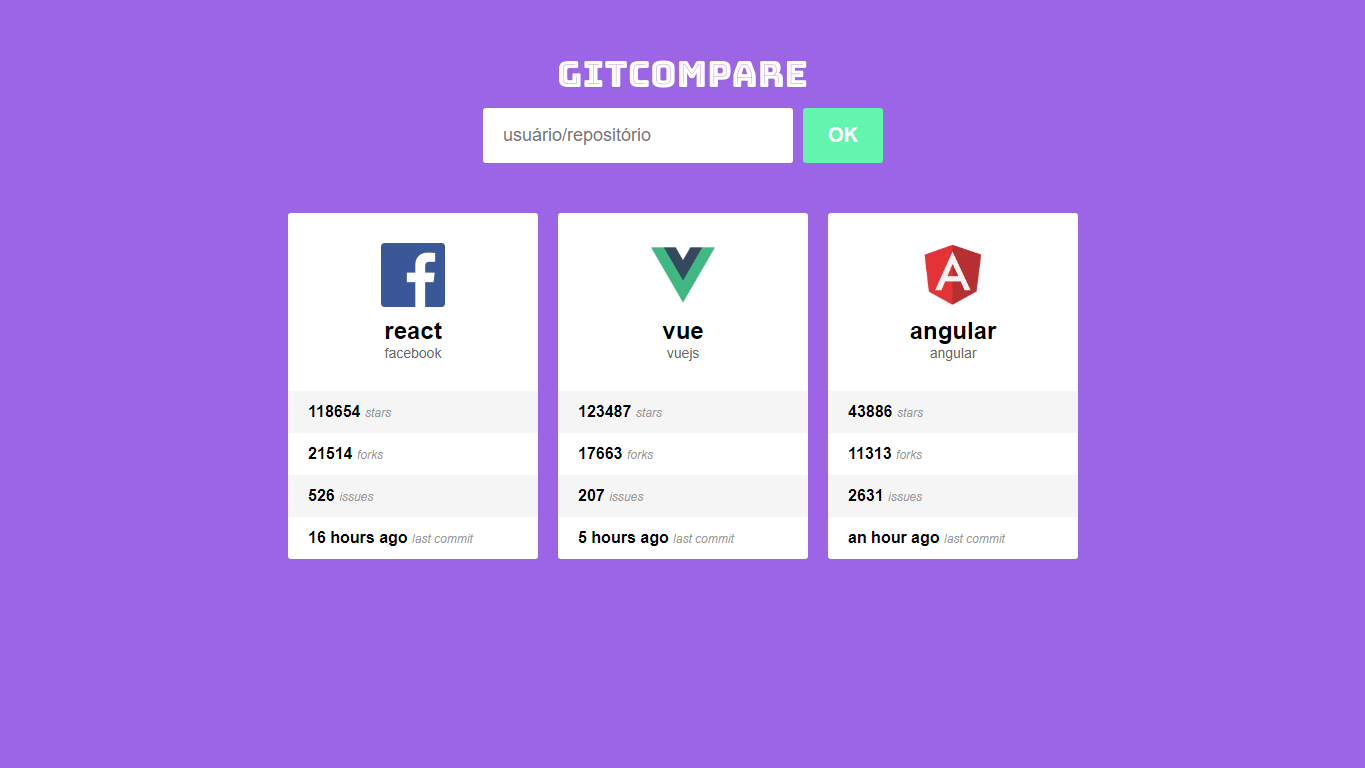
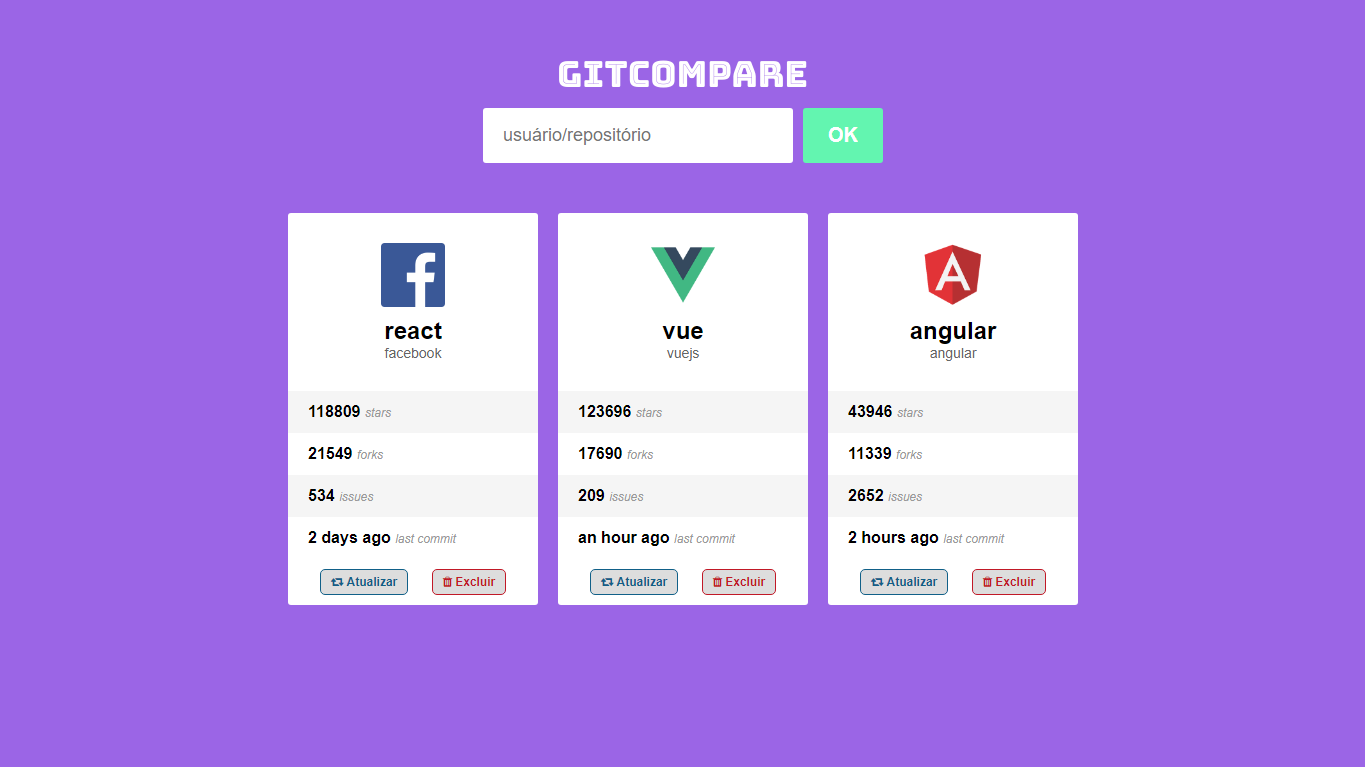
Conclusão do Desafio

diff --git a/src/pages/Main/index.js b/src/pages/Main/index.js
@@ -1,10 +1,13 @@
 import React, { Component } from 'react';
+
 import moment from 'moment';
+
 import api from '../../services/api';
 
 import logo from '../../assets/logo.png';
 
 import { Container, Form } from './styles';
+
 import CompareList from '../../components/CompareList';
 
 export default class Main extends Component {
@@ -15,21 +18,36 @@ export default class Main extends Component {
     repositories: [],
   };
 
+  async componentDidMount() {
+    this.setState({ loading: true });
+
+    this.setState({ loading: false, repositories: await this.getLocalRepositories() });
+  }
+
   handleAddRepository = async (e) => {
     e.preventDefault();
 
     this.setState({ loading: true });
 
+    const { repositoryInput, repositories } = this.state;
+
     try {
-      const { data: repository } = await api.get(`/repos/${this.state.repositoryInput}`);
+      const { data: repository } = await api.get(`/repos/${repositoryInput}`);
 
       repository.lastCommit = moment(repository.pushed_at).fromNow();
 
       this.setState({
         repositoryInput: '',
-        repositories: [...this.state.repositories, repository],
+        repositories: [...repositories, repository],
         repositoryError: false,
       });
+
+      const localRepositories = await this.getLocalRepositories();
+
+      await localStorage.setItem(
+        '@GitCompare:repositories',
+        JSON.stringify([...localRepositories, repository]),
+      );
     } catch (err) {
       this.setState({ repositoryError: true });
     } finally {
@@ -37,24 +55,66 @@ export default class Main extends Component {
     }
   };
 
+  getLocalRepositories = async () => JSON.parse(await localStorage.getItem('@GitCompare:repositories')) || [];
+
+  handleRemoveRepository = async (id) => {
+    const { repositories } = this.state;
+
+    const updatedRepositories = repositories.filter(repository => repository.id !== id);
+
+    this.setState({ repositories: updatedRepositories });
+
+    await localStorage.setItem('@GitCompare:repositories', JSON.stringify(updatedRepositories));
+  }
+
+  handleUpdateRepository = async (id) => {
+    const { repositories } = this.state;
+
+    const repository = repositories.find(repo => repo.id === id);
+
+    try {
+      const { data } = await api.get(`/repos/${repository.full_name}`);
+
+      data.lastCommit = moment(data.pushed_at).fromNow();
+
+      this.setState({
+        repositoryInput: '',
+        repositories: repositories.map(repo => (repo.id === data.id ? data : repo)),
+        repositoryError: false,
+      });
+
+      await localStorage.setItem('@GitCompare:repositories', JSON.stringify(repositories));
+    } catch (err) {
+      this.setState({ repositoryError: true });
+    }
+  };
+
   render() {
+    const {
+      repositories, repositoryInput, repositoryError, loading,
+    } = this.state;
+
     return (
       <Container>
         <img src={logo} alt="GitHub Compare" />
 
-        <Form withError={this.state.repositoryError} onSubmit={this.handleAddRepository}>
+        <Form withError={repositoryError} onSubmit={this.handleAddRepository}>
           <input
             type="text"
             placeholder="usuário/repositório"
-            value={this.state.repositoryInput}
+            value={repositoryInput}
             onChange={e => this.setState({ repositoryInput: e.target.value })}
           />
           <button type="submit">
-            {this.state.loading ? <i className="fa fa-spinner fa-pulse" /> : 'OK'}
+            {loading ? <i className="fa fa-spinner fa-pulse" /> : 'OK'}
           </button>
         </Form>
 
-        <CompareList repositories={this.state.repositories} />
+        <CompareList
+          repositories={repositories}
+          removeRepository={this.handleRemoveRepository}
+          updateRepository={this.handleUpdateRepository}
+        />
       </Container>
     );
   }

diff --git a/src/components/CompareList/index.js b/src/components/CompareList/index.js
@@ -3,7 +3,7 @@ import PropTypes from 'prop-types';
 
 import { Container, Repository } from './styles';
 
-const CompareList = ({ repositories }) => (
+const CompareList = ({ repositories, removeRepository, updateRepository }) => (
   <Container>
     {repositories.map(repository => (
       <Repository key={repository.id}>
@@ -15,26 +15,32 @@ const CompareList = ({ repositories }) => (
 
         <ul>
           <li>
-            {repository.stargazers_count}
-            {' '}
+            {`${repository.stargazers_count} `}
             <small>stars</small>
           </li>
           <li>
-            {repository.forks_count}
-            {' '}
+            {`${repository.forks_count} `}
             <small>forks</small>
           </li>
           <li>
-            {repository.open_issues_count}
-            {' '}
+            {`${repository.open_issues_count} `}
             <small>issues</small>
           </li>
           <li>
-            {repository.lastCommit}
-            {' '}
+            {`${repository.lastCommit} `}
             <small>last commit</small>
           </li>
         </ul>
+        <div className="buttons-container">
+          <button type="button" onClick={() => updateRepository(repository.id)}>
+            <i className="fa fa-retweet" />
+            Atualizar
+          </button>
+          <button type="button" onClick={() => removeRepository(repository.id)}>
+            <i className="fa fa-trash" />
+            Excluir
+          </button>
+        </div>
       </Repository>
     ))}
   </Container>
@@ -55,6 +61,8 @@ CompareList.propTypes = {
       lastCommit: PropTypes.string,
     }),
   ).isRequired,
+  removeRepository: PropTypes.func.isRequired,
+  updateRepository: PropTypes.func.isRequired,
 };
 
 export default CompareList;

diff --git a/src/components/CompareList/styles.js b/src/components/CompareList/styles.js
@@ -4,7 +4,6 @@ export const Container = styled.div`
   display: flex;
   flex-direction: row;
   justify-content: center;
-
   margin-top: 50px;
 `;
 
@@ -13,7 +12,6 @@ export const Repository = styled.div`
   background: #fff;
   border-radius: 3px;
   margin: 0 10px;
-
   display: flex;
   flex-direction: column;
 
@@ -54,6 +52,43 @@ export const Repository = styled.div`
 
       &:nth-child(2n - 1) {
         background: #f5f5f5;
+      }
+    }
+  }
+
+  div.buttons-container {
+    padding: 10px 20px;
+    display: flex;
+    justify-content: space-around;
+
+    button {
+      padding: 5px 10px;
+      border-radius: 5px;
+      font-size: 12px;
+      font-weight: bold;
+
+      i {
+        margin-right: 3px;
+      }
+
+      &:nth-child(2n) {
+        border: 1px solid #c11927;
+        color: #c11927;
+
+        &:hover {
+          background: #aa1622;
+          color: #fff;
+        }
+      }
+
+      &:nth-child(2n - 1) {
+        border: 1px solid #116088;
+        color: #116088;
+
+        &:hover {
+          background: #0e5071;
+          color: #fff;
+        }
       }
     }
   }

diff --git a/README.md b/README.md
@@ -1,6 +1,6 @@
 # ReactJS - Desafio 2
 
-Aplicação GitHub Compare usando Create React App, ESLint, prop-types, styled-components, Axios, Moment e Font Awesome.
+Aplicação GitHub Compare usando Create React App, ESLint, prop-types, styled-components, Axios, Moment, Font Awesome e Local Storage.
 
 ## Desafio 2
 
@@ -33,7 +33,7 @@ Nesse desafio você irá melhorar a aplicação que desenvolvemos durante o segu
 ### Principal
 
 ![Main](/assets/main.png)
-Esta é a única tela, onde encontram-se todos os repositórios do GitHub que o usuário pesquisar na caixa de texto.
+Esta é a única tela, onde encontram-se todos os repositórios do GitHub que o usuário pesquisar na caixa de texto, podendo também, atualizar ou remover o repositório.
 
 ## Rotas
 
